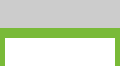
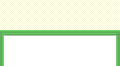
menu, me dicen si quieren el de antes

diff --git a/ciem/static/css/indexpage.css b/ciem/static/css/indexpage.css
@@ -63,7 +63,7 @@ article{
 	transition: all .1s;
 }
 #barraNavegacion a:hover{
-	color:#000062;
+	color:#B4991B;
 	-webkit-transition: all .1s;
 	-moz-transition: all .1s;
 	-o-transition: all .1s;
